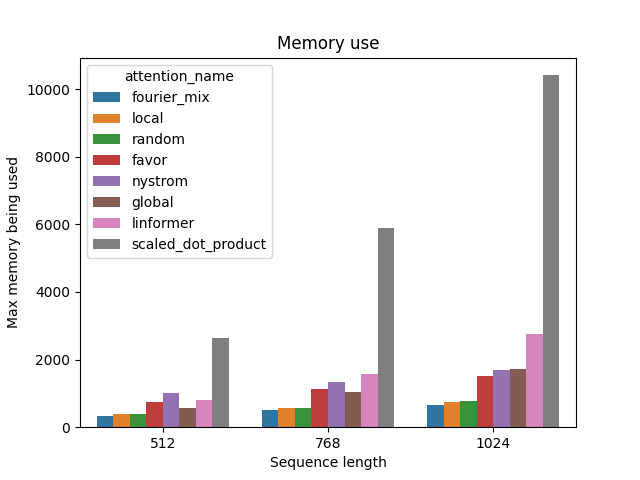
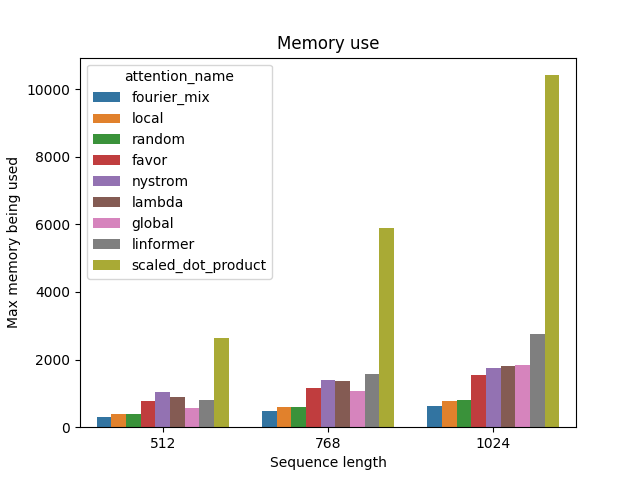
Lambda layer (#158)

diff --git a/xformers/components/attention/lambda_layer.py b/xformers/components/attention/lambda_layer.py
@@ -1,0 +1,62 @@
+from dataclasses import dataclass
+
+import torch
+
+from xformers.components.attention import Attention, AttentionConfig, register_attention
+
+
+def calc_rel_pos(n: int):
+    # Adapted from LucidRains
+    # https://github.com/lucidrains/lambda-networks/blob/main/lambda_networks/lambda_networks.py
+    rel_pos = torch.arange(n)[None, :] - torch.arange(n)[:, None]  # [n, n]
+    rel_pos += n - 1  # shift value range from [-n+1, n-1] to [0, 2n-2]
+    return rel_pos
+
+
+@dataclass
+class LambdaLayerConfig(AttentionConfig):
+    seq_len: int  # dimension of the input sequence
+    dim_head: int
+
+
+@register_attention("lambda", LambdaLayerConfig)
+class LambdaLayer(Attention):
+    def __init__(self, seq_len: int, dim_head: int, *_, **__):
+        """
+        Attention approximation using Lambda layers, from
+        "Lambda networks: modeling long-range interactions without attention.", Bello, I. (2021).
+        """
+        super().__init__()
+
+        # Possible extensions:
+        # - support different dimensions for key and queries
+        # - support varying dimensions in between inputs and outputs
+        # - support u hyperparam
+
+        self.rel_pos_emb = torch.nn.Parameter(
+            torch.randn(2 * seq_len - 1, int(dim_head))
+        )
+        self.rel_pos = calc_rel_pos(seq_len)
+
+    def forward(
+        self, q: torch.Tensor, k: torch.Tensor, v: torch.Tensor, *args, **kwargs
+    ):
+        """..NOTE: We're reusing the einsum notation suggested by the paper, changed in that
+        heads are foled in the batch dimension"""
+
+        content_lambda = torch.einsum("bnk,bnv->bkv", torch.softmax(k, dim=-1), v)
+        content_output = torch.einsum("bnk,bkv->bnv", q, content_lambda)
+
+        rel_pos_emb = self.rel_pos_emb[self.rel_pos]
+
+        # Handle real sequence length being possibly smaller
+        seq_len = q.shape[1]
+        rel_pos_emb = rel_pos_emb[:seq_len, :seq_len, :]
+
+        # Compute the position lambda for every possible combination in one go, then compute the
+        # position related contribution
+        position_lambdas = torch.einsum(
+            "mnk,bnv->bnkv", rel_pos_emb, v
+        )  # one lambda per position
+        position_output = (q.unsqueeze(2) @ position_lambdas).squeeze()
+        return content_output + position_output

diff --git a/README.md b/README.md
@@ -1,9 +1,9 @@
-[![CircleCI](https://circleci.com/gh/fairinternal/xformers.svg?style=shield)](https://app.circleci.com/pipelines/github/fairinternal/xformers/)
-
 # xFormers
+
 Flexible Transformers, defined by interoperable and optimized building blocks that you can trust.
 
-# Key concepts
+## Key concepts
+
 - **Field agnostic**. This repo is not focused on NLP, speech or vision, by design. The focus is on making sure that building transformers is a shared building block in between
 - **Composable**. There are basically two obvious takes to the Transformer ecosystem:
   - support all the architectures proposed in different papers more or less individually
@@ -19,115 +19,113 @@ Flexible Transformers, defined by interoperable and optimized building blocks th
 
 - **Crowd Sourced**. This is probably the single most important part. All of the above should make it possible for people interested to contribute: contributing on a small block is easier than on a full model, unit tests and common interfaces should help, the ability to extend the library locally and test the relevance prior to a PR should also help. PRs are really welcome.
 
-# Using xFormers
-## Installing the repo
+## Using xFormers
+
+### Installing the repo
+
 It is recommended to use a dedicated virtual environment, as often with python, through python-virtualenv or conda for instance.
 `pip install -e .` is all you need to install in dev mode (you can change the repo code and the installation will follow suit), if you just want to install from source and not change it afterwards `pip install .` is what you'll need.
 
-## Sparse attention
+### Sparse attention
+
 Below you will find a set of notebooks that will show you how you can use xFormers in your project
+
 - [Creating complex sparsity patterns with xformers](docs/source/2d_attention_patterns.ipynb)
 - [Changing ViT to use sparse attention, benchmarking the effects](docs/source/vision_transformers.ipynb)
 
+### Adding new variants
 
-## Adding new variants
 Here are a couple of guidelines which should make it easier to add a new block variant to this repo:
-* Blocks live in `xformers/components`
-* Make sure that the block and its config inherit from the ones defined in the base file
-* Default values need to be defined in the class constructor, not in the config.
-  * Using the config objects is optional, people should feel free to cherry pick the blocks as is
-  * Prevent duplication or colliding definitions
-  * Make sure that the configurations are composable, in that a subset of the configs is enough to instantiate all the blocks with reasonable settings.
-* Fields which have default values in the block constructor should be typed as `Optional[Type]`
-* Please follow the CONTRIBUTING guide to make sure that formatting and linting is checked
-* `@register` your new block variant with a unique and hopefully descriptive name
-* Just define the (pure pytorch) constructor and forward call typically, no need to handle enything specific to this repo (except for inheritance)
-* keep `*args` and `**kwargs` in your constructor, this is important for the config composition
-* No need to change unit tests or benchmarks, the new variant will be automatically picked up
+
+- Blocks live in `xformers/components`
+- Make sure that the block and its config inherit from the ones defined in the base file
+- Default values need to be defined in the class constructor, not in the config.
+  - Using the config objects is optional, people should feel free to cherry pick the blocks as is
+  - Prevent duplication or colliding definitions
+  - Make sure that the configurations are composable, in that a subset of the configs is enough to instantiate all the blocks with reasonable settings.
+- Fields which have default values in the block constructor should be typed as `Optional[Type]`
+- Please follow the CONTRIBUTING guide to make sure that formatting and linting is checked
+- `@register` your new block variant with a unique and hopefully descriptive name
+- Just define the (pure pytorch) constructor and forward call typically, no need to handle enything specific to this repo (except for inheritance)
+- keep `*args` and `**kwargs` in your constructor, this is important for the config composition
+- No need to change unit tests or benchmarks, the new variant will be automatically picked up
 
 That's it. Rest assured that the community will be thankful for your contribution !
 
+### Adding new models
 
-## Adding new models
 Models live in `xformers/models`. As a general rule, one should try to write them using the blocks present in `xformers/components` (or upstream PyTorch), so that ulterior improvements are propagated to each implementation.
 
-## Some benchmark tools
+### Some benchmark tools
+
 These live in `xformers/benchmarks`.
 
 ### Benchmark a full encoder block
+
 Sweeping over different attention settings to log max memory use and runtime can for instance be done by invoking
 `python3 benchmarks/benchmark_encoder.py`. Specifying a subset to test is done through command line arguments, for instance `python3 benchmarks/benchmark_encoder.py --causal True --attentions random --activations gelu -fp16 True`.
 
 Please note that:
+
 - These numbers are dependent of hyperparameters (dimensions chosen for Linformer, sparsity of the pattern), they are mostly an illustration
 - The sparse attention patterns tested here are just presets, as explained in the linked notebook generating any new sparse attention pattern should be relatively easy, while keeping the benefits of optimized computations.
 
 Some examples, generated with `python3 benchmarks/benchmark_encoder.py --activations gelu --plot -emb 256 -bs 32 -heads 16`
 
-![](docs/plots/memory_vs_attention.png)
+![Memory use for different attentions](docs/plots/memory_vs_attention.png)
 
-![](docs/plots/runtime_vs_attention.png)
-
+![Runtime for different attentions](docs/plots/runtime_vs_attention.png)
 
 ### Benchmark the core sparse attention mechanisms
-`python3 benchmarks/benchmark_core.py` will measure the speed of the core sparse attention mechanism. The current numbers are as follows:
 
-```
-[--------------------------- matmul_with_mask --------------------------]
-                              |  B=8, M=256, K=128  |  B=8, M=1024, K=256
-1 threads: --------------------------------------------------------------
-      dense                   |         62.3        |         510.3
-      dense with masking      |         84.2        |         805.3
-      sparsity pytorch: 0.50  |        392.4        |        6197.4
-      sparsity pytorch: 0.80  |        336.2        |        4437.3
-      sparsity pytorch: 0.90  |        244.1        |        3017.4
-      sparsity pytorch: 0.95  |        193.2        |        1899.5
-      sparsity pytorch: 0.99  |        195.6        |         695.0
-      sparsity sputnik: 0.50  |         77.9        |        1695.9
-      sparsity sputnik: 0.80  |         43.8        |         793.0
-      sparsity sputnik: 0.90  |         43.6        |         435.5
-      sparsity sputnik: 0.95  |         43.2        |         258.6
-      sparsity sputnik: 0.99  |         43.5        |         145.4
+`python3 benchmarks/benchmark_core.py` will measure the speed of the core sparse attention mechanism. The current numbers are as follows (times in microseconds (us)):
 
-Times are in microseconds (us).
+| **matmul_with_mask**   | B=8, M=256, K=128 | B=8, M=1024, K=256 |
+| ---------------------- | ----------------- | ------------------ |
+| dense                  | 62.3              | 510.3              |
+| dense with masking     | 84.2              | 805.3              |
+| sparsity pytorch: 0.50 | 392.4             | 6197.4             |
+| sparsity pytorch: 0.80 | 336.2             | 4437.3             |
+| sparsity pytorch: 0.90 | 244.1             | 3017.4             |
+| sparsity pytorch: 0.95 | 193.2             | 1899.5             |
+| sparsity pytorch: 0.99 | 195.6             | 695.0              |
+| sparsity sputnik: 0.50 | 77.9              | 1695.9             |
+| sparsity sputnik: 0.80 | 43.8              | 793.0              |
+| sparsity sputnik: 0.90 | 43.6              | 435.5              |
+| sparsity sputnik: 0.95 | 43.2              | 258.6              |
+| sparsity sputnik: 0.99 | 43.5              | 145.4              |
 
-[------------------------------- softmax -------------------------------]
-                              |  B=8, M=256, K=128  |  B=8, M=1024, K=256
-1 threads: --------------------------------------------------------------
-      dense                   |          12.8       |         141.9
-      sparsity pytorch: 0.50  |        1140.9       |        8081.4
-      sparsity pytorch: 0.80  |         515.0       |        3494.8
-      sparsity pytorch: 0.90  |         367.3       |        1932.6
-      sparsity pytorch: 0.95  |         293.6       |        1078.9
-      sparsity pytorch: 0.99  |         252.1       |         342.4
-      sparsity sputnik: 0.50  |          32.8       |         164.7
-      sparsity sputnik: 0.80  |          32.9       |          50.8
-      sparsity sputnik: 0.90  |          33.0       |          33.5
-      sparsity sputnik: 0.95  |          32.5       |          32.7
-      sparsity sputnik: 0.99  |          33.2       |          32.7
+| **softmax**            | B=8, M=256, K=128 | B=8, M=1024, K=256 |
+| ---------------------- | ----------------- | ------------------ |
+| dense                  | 12.8              | 141.9              |
+| sparsity pytorch: 0.50 | 1140.9            | 8081.4             |
+| sparsity pytorch: 0.80 | 515.0             | 3494.8             |
+| sparsity pytorch: 0.90 | 367.3             | 1932.6             |
+| sparsity pytorch: 0.95 | 293.6             | 1078.9             |
+| sparsity pytorch: 0.99 | 252.1             | 342.4              |
+| sparsity sputnik: 0.50 | 32.8              | 164.7              |
+| sparsity sputnik: 0.80 | 32.9              | 50.8               |
+| sparsity sputnik: 0.90 | 33.0              | 33.5               |
+| sparsity sputnik: 0.95 | 32.5              | 32.7               |
+| sparsity sputnik: 0.99 | 33.2              | 32.7               |
 
-Times are in microseconds (us).
-
-[--------------------------------- bmm ---------------------------------]
-                              |  B=8, M=256, K=128  |  B=8, M=1024, K=256
-1 threads: --------------------------------------------------------------
-      dense                   |         31.0        |         590.7
-      sparsity pytorch: 0.50  |        577.0        |       13830.2
-      sparsity pytorch: 0.80  |        254.4        |        5944.0
-      sparsity pytorch: 0.90  |        162.0        |        3063.0
-      sparsity pytorch: 0.95  |        161.6        |        1692.3
-      sparsity pytorch: 0.99  |        161.9        |         433.4
-      sparsity sputnik: 0.50  |         64.6        |        1640.5
-      sparsity sputnik: 0.80  |         39.6        |         703.3
-      sparsity sputnik: 0.90  |         39.6        |         391.4
-      sparsity sputnik: 0.95  |         39.7        |         223.6
-      sparsity sputnik: 0.99  |         39.7        |          77.4
-
-Times are in microseconds (us).
-```
+| **bmm**                | B=8, M=256, K=128 | B=8, M=1024, K=256 |
+| ---------------------- | ----------------- | ------------------ |
+| dense                  | 31.0              | 590.7              |
+| sparsity pytorch: 0.50 | 577.0             | 13830.2            |
+| sparsity pytorch: 0.80 | 254.4             | 5944.0             |
+| sparsity pytorch: 0.90 | 162.0             | 3063.0             |
+| sparsity pytorch: 0.95 | 161.6             | 1692.3             |
+| sparsity pytorch: 0.99 | 161.9             | 433.4              |
+| sparsity sputnik: 0.50 | 64.6              | 1640.5             |
+| sparsity sputnik: 0.80 | 39.6              | 703.3              |
+| sparsity sputnik: 0.90 | 39.6              | 391.4              |
+| sparsity sputnik: 0.95 | 39.7              | 223.6              |
+| sparsity sputnik: 0.99 | 39.7              | 77.4               |
 
 ### LRA
-The code for this benchmark has been adapted from https://github.com/mlpen/Nystromformer/tree/main/LRA. [A dedicated README is available here](benchmarks/LRA/README.md)
+
+The code for this benchmark has been adapted from [this repository](https://github.com/mlpen/Nystromformer/tree/main/LRA). [A dedicated README is available here](benchmarks/LRA/README.md)
 
 Some results:
 
@@ -139,16 +137,16 @@ Some results:
 | Favor-256 (redraw)          | 18.75     | **63.53** | **79.37** | 32.44     | 66.77      | 52.17     | 0.49          | 445             |
 | FourierMix                  | 35.69     | 63.09     | 73.98     | 33.71     | 51.14      | 51.52     | **0.17**      | **87**          |
 | Linformer-seq/4 (no redraw) | 37.10     | 57.87     | 76.46     | 38.84     | 55.15      | 53.08     | 0.67          | 719             |
-
-
+| Lambda                      | 19.76     | 62.47     | 79.11     | 35.04     | 49.74      | 49.74     | x             | 1023            |
 
 Contrary to the initial LRA proposal, we use the same model architecture for all tasks (2 layers). The training schedule for ListOps has also been lengthened, while keeping it the fastest of all tasks, which reduces the seed dependence in the final accuracy figure. Estimated flops and peak memory are on the ListOps task, using 4 GPUs. Note that LRA is not completely well defined, in that hyperparameters and model architectures can vary (should the same architecture be used everywhere ? Similar hyperparams ?). This could be improved in the future, but in the meantime one should probably not read too much into small differences for some tasks, probably not meaningful.
 
 _Note_: The estimated flops currently miss accounting for many operators, and are almost certainly an undercount. See issue [#154](https://github.com/fairinternal/xformers/issues/154)
 
-
 ## Bibliograpy
+
 Some references or papers used in the repo
+
 - [Attention is all you need, Vaswani et al., 2017](https://papers.nips.cc/paper/2017/file/3f5ee243547dee91fbd053c1c4a845aa-Paper.pdf)
 - [Linformer, self-attention with linear complexity, Wang et al., 2020](https://arxiv.org/pdf/2006.04768.pdf)
 - [BigBird, Transformer for longer sequences, Zaheer et al., 2020](https://papers.nips.cc/paper/2020/file/c8512d142a2d849725f31a9a7a361ab9-Paper.pdf)
